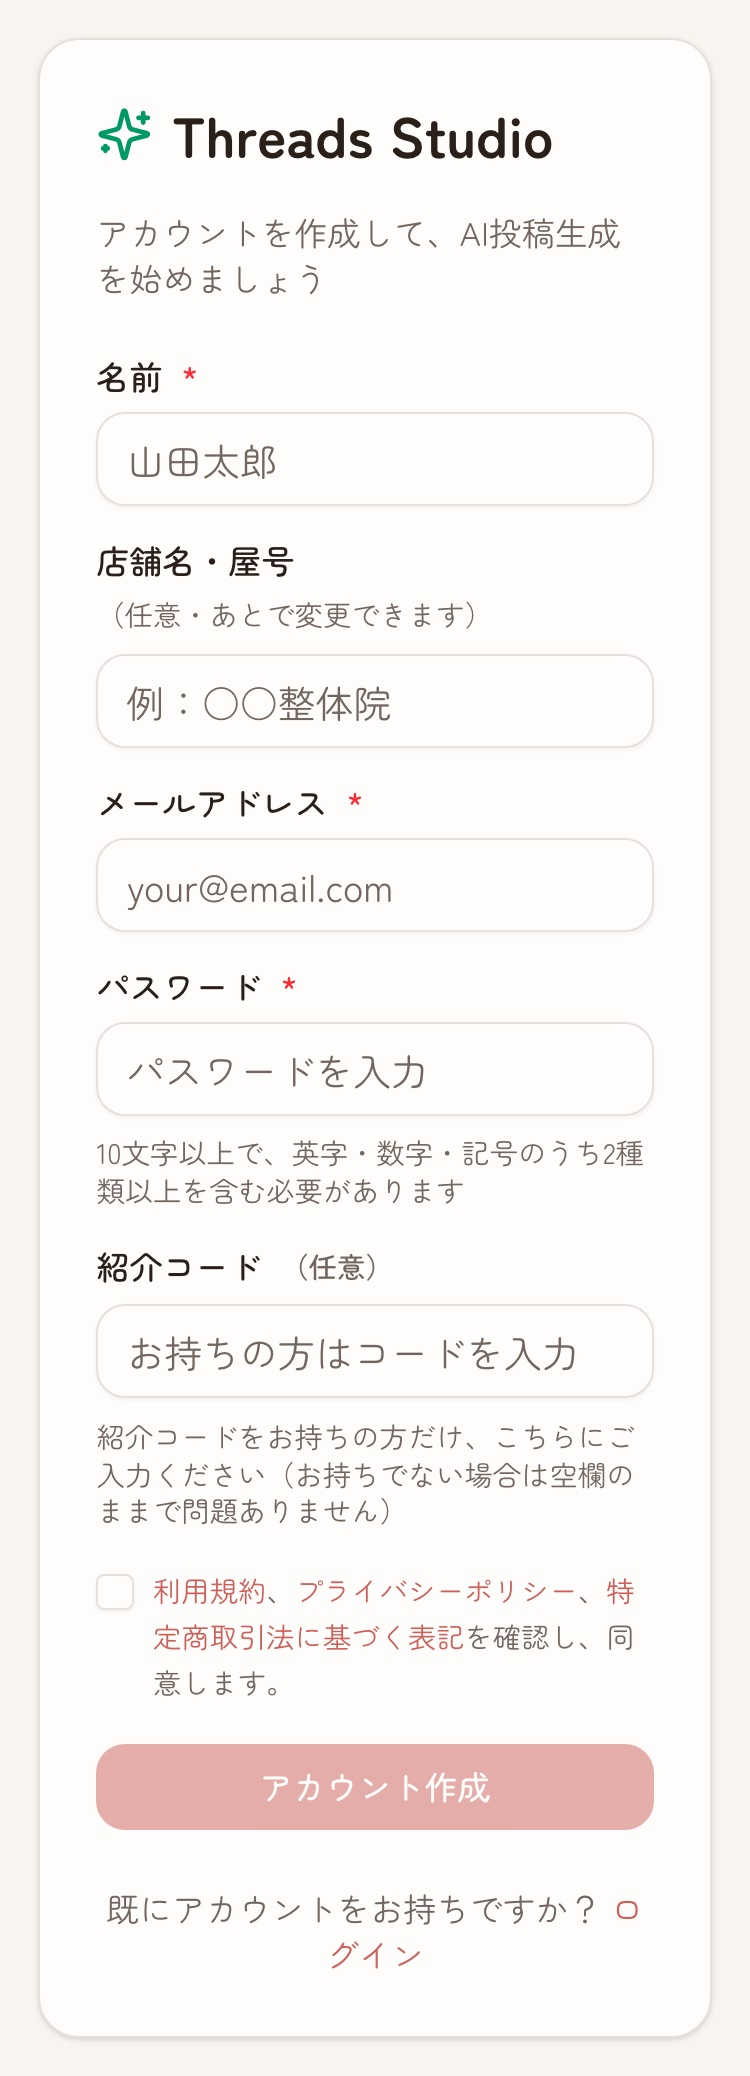
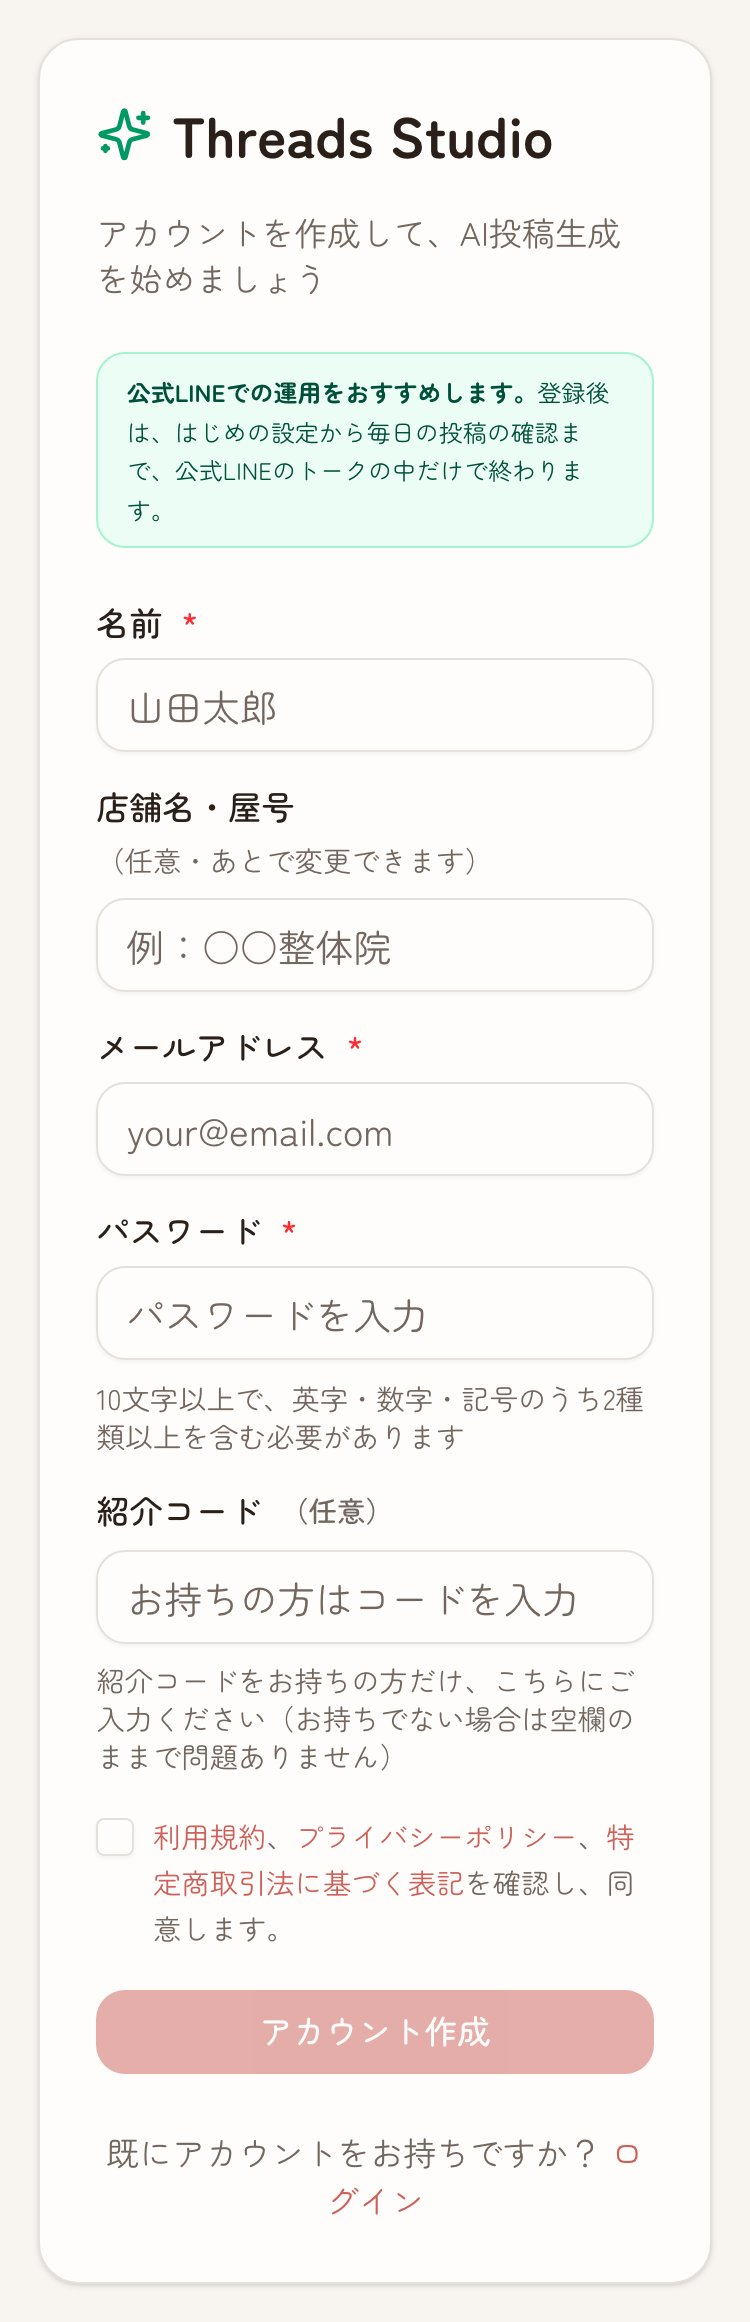
ログイン後の全画面と登録画面に「公式LINEでの運用をおすすめします」を表示
- DashboardLayout に LineFirstBanner を追加（未連携の方だけ・友だち追加/連携のしかた・閉じたら7日間非表示）
- 登録画面の見出し直下にも同じ案内
- トップのデモ用 登録画面スクショを新しい表示で撮り直し
- 375pxでボタンが折り返さないことを確認

diff --git a/client/src/components/LineFirstBanner.tsx b/client/src/components/LineFirstBanner.tsx
@@ -1,0 +1,85 @@
+/**
+ * 「公式LINEでの運用をおすすめします」の帯。
+ *
+ * ログイン後の全画面の上部（DashboardLayout）に出す。
+ * Threads Studio は、設定から毎日の投稿の確認までLINEのトークの中で終わる作りで、
+ * アプリの画面を開いてもらう必要が本来ない。ところが登録後にアプリだけを触って
+ * 止まってしまう方が多いため、どの画面にいても LINE への導線が見えるようにする
+ * （2026-09-03 三上様指示）。
+ *
+ * 表示条件: 公式LINEとまだ連携していない方だけ。連携済みの方には出さない（邪魔になるだけ）。
+ * 閉じたら7日間は出さない（毎回出すと読まれなくなる）。
+ */
+import { useState } from "react";
+import { MessageCircle, X } from "lucide-react";
+import { useLocation } from "wouter";
+import { trpc } from "@/lib/trpc";
+import { useAuth } from "@/_core/hooks/useAuth";
+import { useLang } from "@/i18n";
+
+const DISMISS_KEY = "ts-line-first-dismissed-at";
+const DISMISS_DAYS = 7;
+
+function dismissedRecently(): boolean {
+  try {
+    const v = localStorage.getItem(DISMISS_KEY);
+    if (!v) return false;
+    return Date.now() - Number(v) < DISMISS_DAYS * 86400000;
+  } catch {
+    return false;
+  }
+}
+
+export function LineFirstBanner() {
+  const { t } = useLang();
+  const { isAuthenticated } = useAuth();
+  const [, setLocation] = useLocation();
+  const [hidden, setHidden] = useState<boolean>(() => dismissedRecently());
+  const status = trpc.lineNotify.getStatus.useQuery(undefined, { enabled: isAuthenticated, retry: false });
+
+  if (!isAuthenticated || hidden) return null;
+  if (!status.data || status.data.linked) return null;
+  const addUrl: string | null = (status.data as any).addFriendUrl ?? null;
+
+  const dismiss = () => {
+    try { localStorage.setItem(DISMISS_KEY, String(Date.now())); } catch { /* 保存できなくても閉じるだけ */ }
+    setHidden(true);
+  };
+
+  return (
+    <div className="relative bg-emerald-50 border-b border-emerald-200 px-4 py-2.5 pr-10">
+      {/* 閉じるは右上に固定（スマホでボタン列の下に落ちないように） */}
+      <button type="button" onClick={dismiss} aria-label={t("閉じる")} className="absolute top-2 right-2 p-1 rounded hover:bg-emerald-100 text-emerald-700">
+        <X className="h-4 w-4" />
+      </button>
+      <div className="container mx-auto max-w-7xl flex flex-col sm:flex-row sm:items-center gap-2 sm:gap-4">
+        <div className="flex items-start gap-2 flex-1 min-w-0">
+          <MessageCircle className="h-4 w-4 text-emerald-700 flex-shrink-0 mt-0.5" />
+          <p className="text-xs sm:text-[13px] text-emerald-900 leading-relaxed">
+            <span className="font-semibold">{t("公式LINEでの運用をおすすめします。")}</span>
+            {t("はじめの設定から毎日の投稿の確認まで、LINEのトークの中だけで終わります。アプリの画面を開く必要はありません。")}
+          </p>
+        </div>
+        <div className="flex flex-wrap items-center gap-2 flex-shrink-0">
+          {addUrl && (
+            <a
+              href={addUrl}
+              target="_blank"
+              rel="noreferrer"
+              className="inline-flex items-center whitespace-nowrap rounded-md bg-[#06c755] px-2.5 py-1.5 text-xs font-bold text-white hover:opacity-90"
+            >
+              {t("LINEを友だち追加")}
+            </a>
+          )}
+          <button
+            type="button"
+            onClick={() => setLocation("/settings")}
+            className="inline-flex items-center whitespace-nowrap rounded-md border border-emerald-300 bg-white px-2.5 py-1.5 text-xs font-bold text-emerald-800 hover:bg-emerald-100"
+          >
+            {t("連携のしかた")}
+          </button>
+        </div>
+      </div>
+    </div>
+  );
+}

diff --git a/client/src/components/DashboardLayout.tsx b/client/src/components/DashboardLayout.tsx
@@ -5,6 +5,7 @@ import { useIsMobile } from "@/hooks/useMobile";
 import { cn } from "@/lib/utils";
 import MonitorFeedbackWidget from "./MonitorFeedbackWidget";
 import { SubscriptionAlertBanner } from "./SubscriptionAlertBanner";
+import { LineFirstBanner } from "./LineFirstBanner";
 import {
   BarChart3,
   BookOpen,
@@ -520,6 +521,9 @@ export default function DashboardLayout({
 
         {/* 決済失敗時の警告バナー — past_due / unpaid / incomplete のみ表示 */}
         <SubscriptionAlertBanner />
+
+        {/* 公式LINEでの運用のおすすめ（未連携の方だけ・全画面共通） */}
+        <LineFirstBanner />
 
         {/* Page Content。スマホでは下部タブバーに隠れないよう余白を多めに確保 */}
         {/* pb-44: 下タブ(64px)＋右下のフローティングボタン2つが最下部のボタンを隠さない余白 */}

diff --git a/client/src/pages/Register.tsx b/client/src/pages/Register.tsx
@@ -111,6 +111,10 @@ export default function Register() {
           <CardDescription>
             アカウントを作成して、AI投稿生成を始めましょう
           </CardDescription>
+          <p className="mt-2 rounded-md bg-emerald-50 border border-emerald-200 px-3 py-2 text-[12px] text-emerald-900 leading-relaxed">
+            <span className="font-semibold">公式LINEでの運用をおすすめします。</span>
+            登録後は、はじめの設定から毎日の投稿の確認まで、公式LINEのトークの中だけで終わります。
+          </p>
         </CardHeader>
         <CardContent className="space-y-4">
           {error && (
